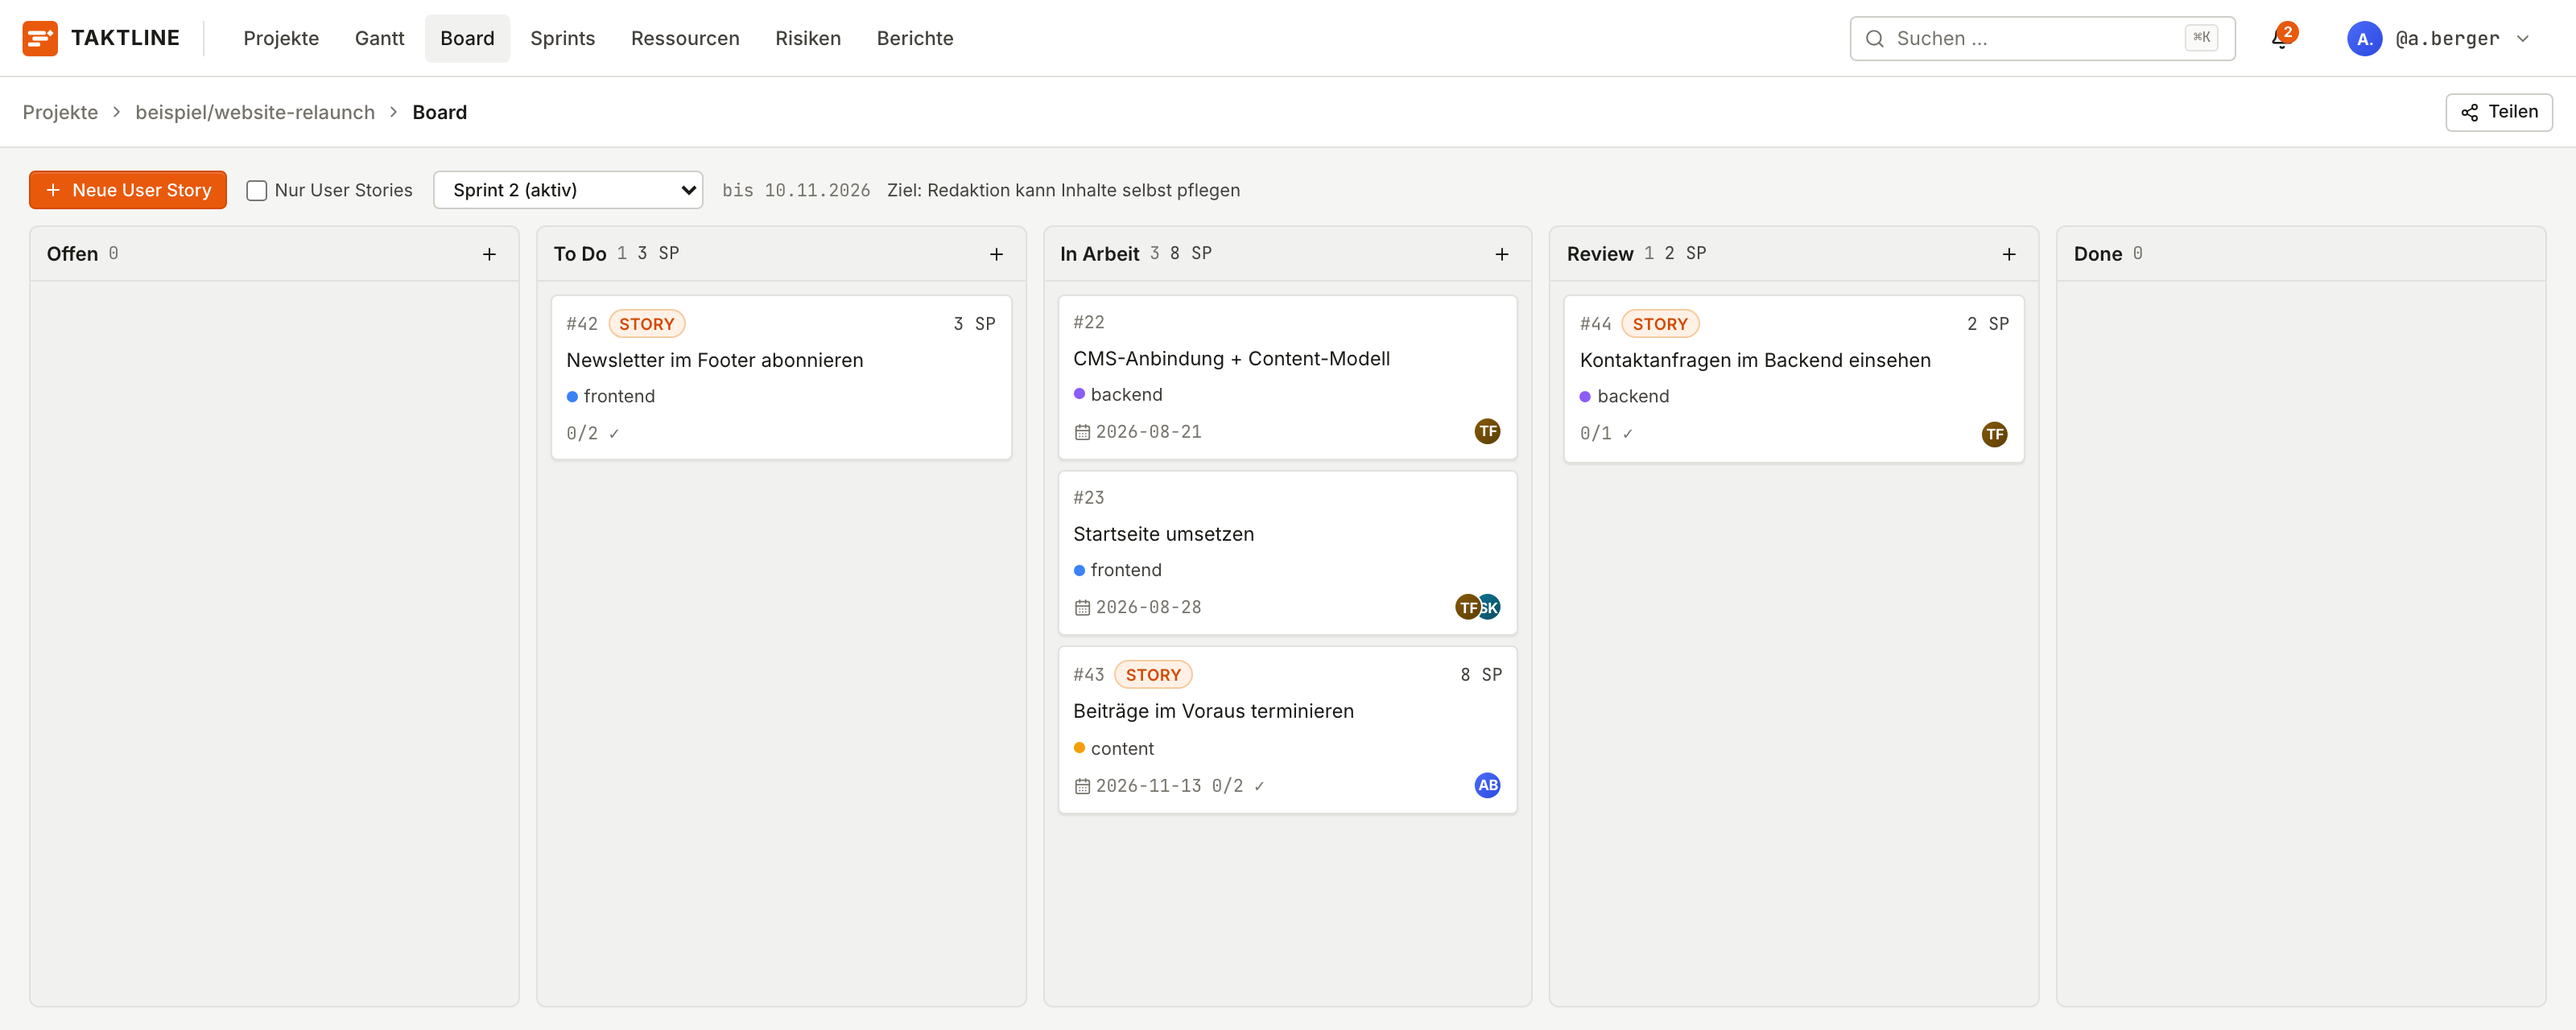
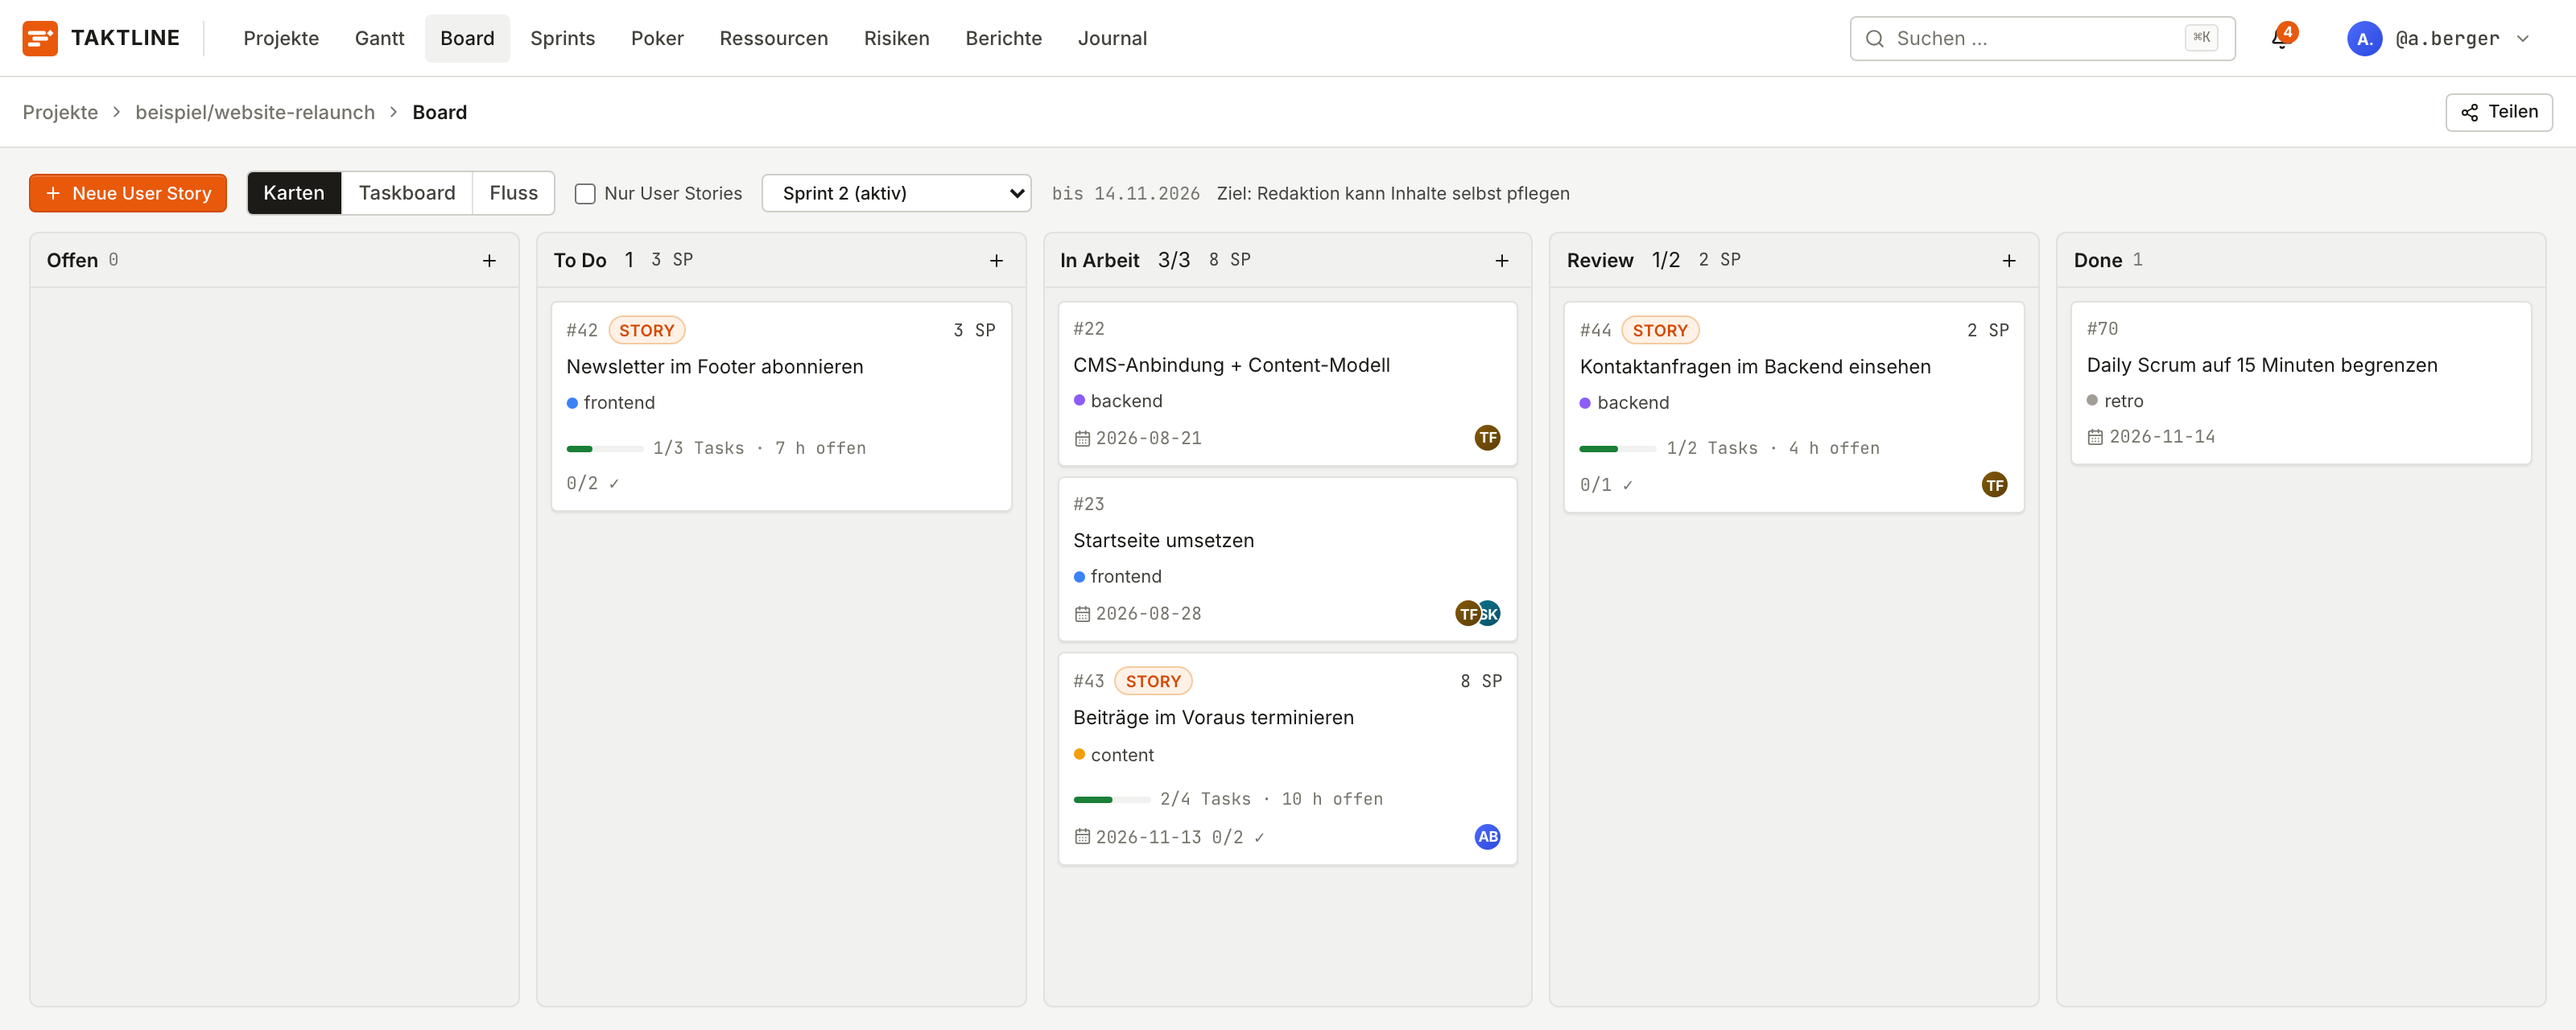
Screenshots für Poker, Taskboard, Retro und Fluss

diff --git a/scripts/screenshots.ts b/scripts/screenshots.ts
@@ -67,6 +67,48 @@ const SHOTS: Shot[] = [
     viewport: { width: 1600, height: 760 },
   },
   {
+    file: 'taskboard.png',
+    path: `/projects/${DEMO_PROJECT_ID}/board`,
+    description: 'Taskboard: Tasks pro Story im aktiven Sprint',
+    viewport: { width: 1600, height: 760 },
+    prepare: async (page) => {
+      await page.getByRole('button', { name: 'Taskboard' }).click();
+      await page.locator('.taskboard__task').first().waitFor();
+    },
+  },
+  {
+    file: 'poker.png',
+    path: `/projects/${DEMO_PROJECT_ID}/poker`,
+    description: 'Planning Poker nach dem Aufdecken',
+    viewport: { width: 1600, height: 1000 },
+    prepare: async (page) => {
+      await page.getByRole('button', { name: /Merkliste für Produkte/ }).click();
+      await page.getByText('Runde 1').waitFor();
+      await page.getByRole('button', { name: /^8 –/ }).click();
+      await page.waitForTimeout(1200);
+      await page.getByRole('button', { name: 'Aufdecken' }).click();
+      await page.locator('.poker__stats').waitFor();
+      // Die Karten drehen sich gestaffelt um.
+      await page.waitForTimeout(1500);
+    },
+  },
+  {
+    file: 'retro.png',
+    path: `/projects/${DEMO_PROJECT_ID}/sprints/1`,
+    description: 'Sprint Review und Retrospektive',
+    viewport: { width: 1600, height: 1100 },
+  },
+  {
+    file: 'flow.png',
+    path: `/projects/${DEMO_PROJECT_ID}/board`,
+    description: 'Cumulative Flow Diagram',
+    viewport: { width: 1600, height: 640 },
+    prepare: async (page) => {
+      await page.getByRole('button', { name: 'Fluss' }).click();
+      await page.locator('.flow__svg').waitFor();
+    },
+  },
+  {
     file: 'share-links.png',
     path: `/projects/${DEMO_PROJECT_ID}/board`,
     description: 'Lese-Link erstellen',

diff --git a/README.md b/README.md
@@ -9,7 +9,7 @@ Projektmanagement-Tool als Bridge zwischen GitLab CE und vollwertiger PM-Softwar
 ![Gantt-Ansicht mit Hierarchie, Dependency-Pfeilen und Inspector](docs/screenshots/gantt-overview.png)
 
 <details>
-<summary>Weitere Ansichten: Board, Sprints, Lese-Links, Risikomatrix, Ressourcen, Berichte</summary>
+<summary>Weitere Ansichten: Board, Taskboard, Sprints, Planning Poker, Retro, Fluss, Lese-Links, Risikomatrix, Ressourcen, Berichte</summary>
 
 **Kanban-Board** — Karten per Drag-and-Drop zwischen den Spalten verschieben, standardmässig mit dem aktiven Sprint:
 
@@ -19,9 +19,25 @@ Projektmanagement-Tool als Bridge zwischen GitLab CE und vollwertiger PM-Softwar
 
 ![User Story bearbeiten](docs/screenshots/story-dialog.png)
 
-**Sprints** — Aufgaben aus dem Backlog einplanen, Sprints starten und abschliessen:
+**Taskboard** — Stories im Sprint Planning in Tasks von höchstens einem Tag zerlegt (native GitLab-Tasks mit Stundenschätzung), eine Zeile pro Story:
+
+![Taskboard](docs/screenshots/taskboard.png)
+
+**Sprints** — Product Goal, Definition of Done und Velocity oben; Aufgaben aus dem Backlog einplanen, Burndown des laufenden Sprints in Stunden oder Story Points:
 
 ![Sprint-Planung](docs/screenshots/sprints.png)
+
+**Planning Poker** — Stories gemeinsam schätzen, auch zeitversetzt; die Karten bleiben verdeckt, bis jemand aufdeckt, das Ergebnis wird als Story Points übernommen:
+
+![Planning Poker](docs/screenshots/poker.png)
+
+**Sprint Review und Retrospektive** — Sprint-Ziel erreicht oder nicht, Inkrement und Feedback; Retro-Board mit Punkte-Abstimmung, Massnahmen werden Issues im nächsten Sprint:
+
+![Sprint Review und Retrospektive](docs/screenshots/retro.png)
+
+**Fluss** — Cumulative Flow Diagram und WIP-Limits pro Spalte:
+
+![Cumulative Flow Diagram](docs/screenshots/flow.png)
 
 **Lese-Links** — für Personen ohne GitLab-Konto, mit Ablaufdatum und jederzeit widerrufbar:
 
